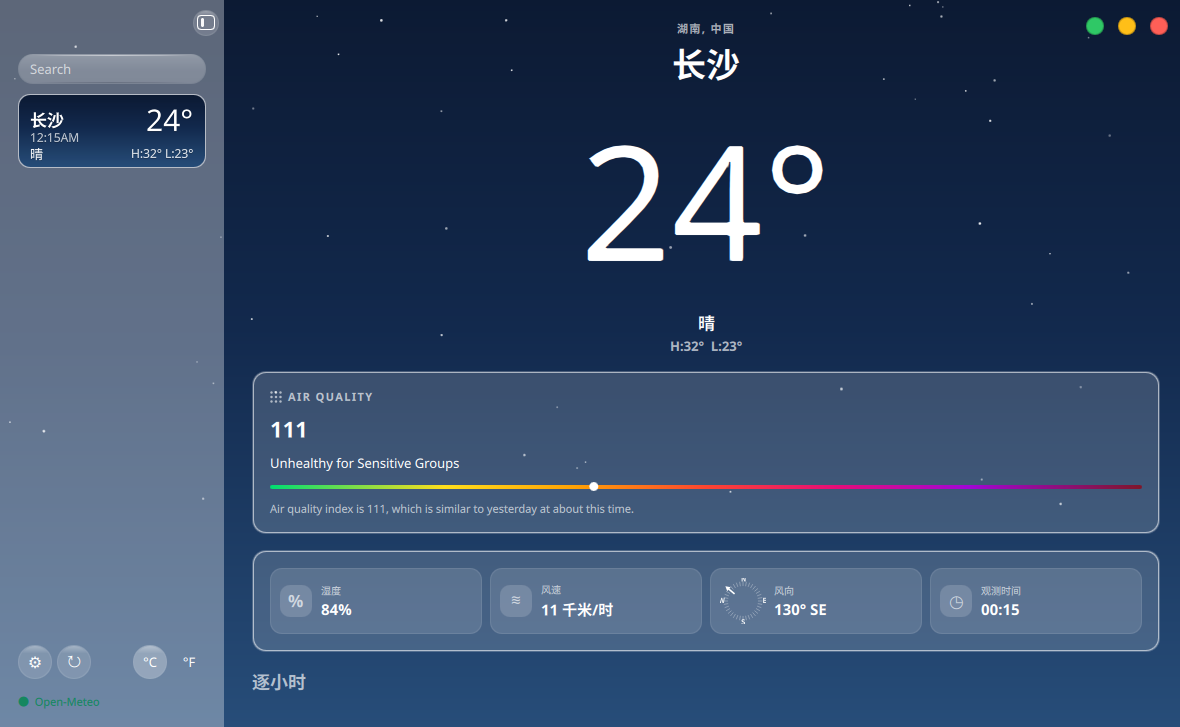
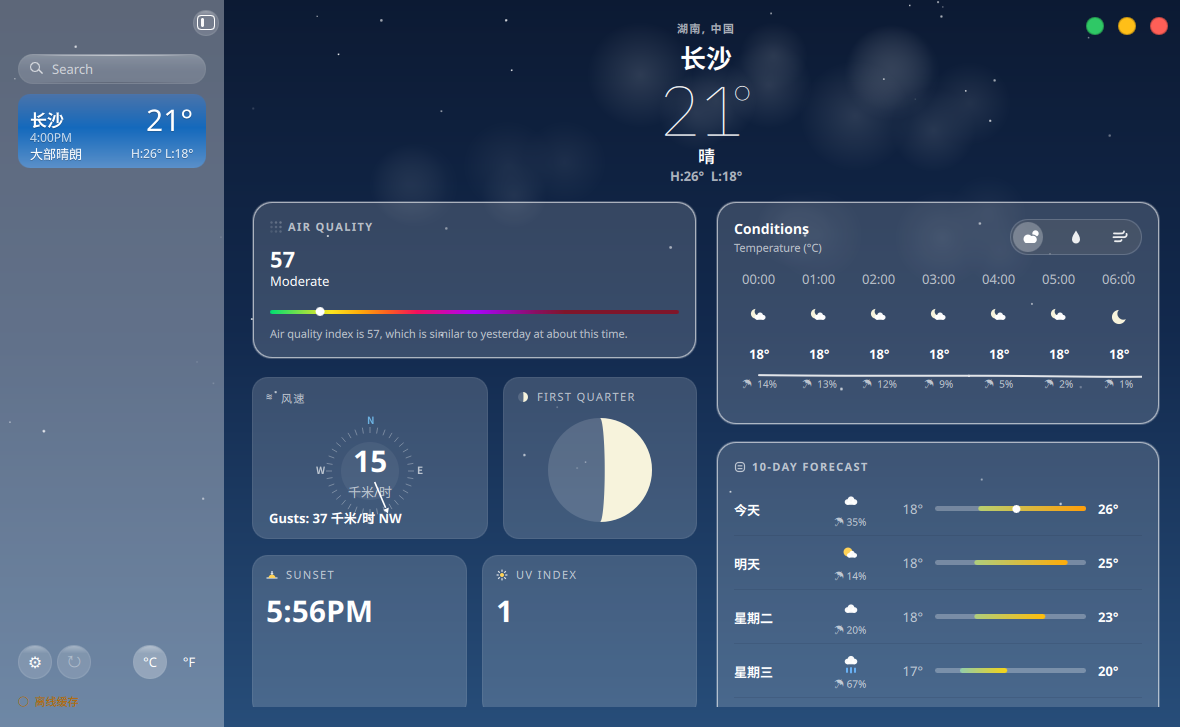
docs: round 31 进度与截图

diff --git a/docs/ui-weather/LEDGER.md b/docs/ui-weather/LEDGER.md
@@ -4,6 +4,10 @@
 参考实测色（814×498 主图采样）：天空 `#2961a7→#1469bc→#538ec9`（上→下，含云照片）；Conditions 卡 `#0057b2`；hero 文本 `#ffffff`；10天条渐变 青→黄→橙。
 
 ## 已改
+- **分段胶囊灰填充夜态实拍收口（本轮=纯验证轮，净零代码改动，外推待确认首条收口）**：重建夜态取证环境 `/tmp/kos-weather-night-state`（复制 dev `state.json`+`snapshot.json`，**两份都**改 `current.isDay:false/weatherCode:0/time 23:30`——踩坑：首拍只改 state.json，snapshot.json 优先生效、卡面 (35,111,191)=日间精确值暴露夜态未生效；两份都改后夜空 (19,35,61) 生效）+ `KOS_WEATHER_DISABLE_SERVICE_AUTOSTART=1` + `KOS_DATA_SOCKET=/nonexistent` + `KOS_SCREENSHOT_DELAY_MS=2500`。
+  **实测**（本轮二进制截图 tmp/shots/night-capsule-1792313572.png 过体检闸 ✅ 1180×727）：夜卡面 **(63,80,106)**、未选胶囊内 **(69,83,104)** → 相对卡面 **ΔR+6/G+3/B−2** vs 日间 (+18,0,−18)——上轮残差 a 预测"夜空下灰覆盖层提亮/压暗近中性"**证实**；胶囊−卡面最大通道差 6（日间 18）→ 填充可辨度降 ~3×，可见性由 border 白@0.22（顶/底描边 y219/254 在场，高 36px 与日间一致）+ 选中盘 **(122,132,147)**（=白@0.27 叠胶囊理论值 (119,130,145) 精确吻合，相对胶囊 Δ+53/+49/+43）+ 纯白 glyph (255,255,255) 三重支撑。
+  **目视** /tmp/z-night-capsule.png（4x）：描边清晰、无硬边、无发灰脏感；选中盘+云日/水滴/风流线三 glyph 夜卡上全部可读；/tmp/z-night-card.png 全卡目视 Conditions 头部/副题/逐小时 7 列/☂%/月相图标（06:00 转夜正确）均健康。
+  **测试**：Qt 6/6 绿（env -u KOS_DATA_SOCKET）、go test ok。净零 diff 轮无 qmllint 义务；无动效改动，无帧差义务。
 - **分段胶囊填充 白@0.14 → 脱饱和中性灰（本轮，前端，零 Go/C++/shared 改动，上轮 seg-glyph 轮残差 c 收口）**：上轮残差记载"ref 胶囊填充为脱饱和中性灰、我方白@0.14 平替"。本轮 Pillow 采样定标——ref-main（814×498）Conditions 卡分段胶囊：卡面 (0,83,180)、胶囊内 (28,90,168)（x688-737 两段各 ~10 采样一致）、选中盘 (95,134,192)；相对卡面 **R+28/G+7/B−12**（蓝通道反降=压暗脱饱和），解出覆盖层灰 ≈#767676（通道解算 110-126 区间）@ α0.22-0.26（取 0.24）；我方白@0.14 方向相反（卡 (35,111,191) → 胶囊 (63,130,201)，ΔR+29/G+19/B+9 整体提亮）。`apps/weather/qml/Main.qml:2391` hourlySegmented 背景 Rectangle color `Qt.rgba(1,1,1,0.14)` → `Qt.rgba(0.46,0.46,0.46,0.24)`（注释标明 ref 实测依据）；radius 18/border 白@0.22/选中盘 白@0.27/三 Canvas glyph fillStyle 一律未动——盘叠新胶囊后自动收敛（预测 (109,151,196) vs ref (95,134,192)，盘相对胶囊 +55/+40/+22 vs ref +67/+44/+24 同族）。
   **实测**（本轮二进制截图 tmp/shots/capsule-1792313347.png 过体检闸 ✅ 1180×727，dev env + KOS_SCREENSHOT_DELAY_MS=2500，日间多云场景）：胶囊内 (53,111,173) vs 卡面 (35,111,191) = **ΔR+18/G0/B−18**（与 ref 相对方向同向，理论预测 (55,113,174) 精确吻合）；目视 /tmp/z-my-capsule-new.png vs /tmp/z-ref-capsule.png：脱饱和灰胶囊+白 glyph+灰盘白云日与 ref 同构、无硬边。
   **回归**（vs 改前 inspect-1792313054，2px 步进 diff>24）：变化 797 采样**全部**落胶囊 bbox (1012,220)-(1140,252)，全窗其余零变化。qmllint 0 error（y:1449 既有 warning 基线）。测试 Qt 6/6 绿（env -u KOS_DATA_SOCKET）、go test ok。本轮无动效改动，无帧差义务。
@@ -287,7 +291,7 @@
 14. **空态残差（视觉冲击低，仅在无数据场景可见，见已改"空态文字可读性修复"条残差）**：a) 空态下 AQ 卡仍显示 "0"+全宽渐变条+白点+"similar to yesterday" 静态文案（无数据门控，有误导性）；b) Conditions 卡空态卡体全空（逐小时区无空态提示）；c) 空态 glyph 保持 accent 淡蓝。参考图无空态形态，是否处理待用户裁定；文字可读性本体已修。
 
 ## 外推待确认
-- **分段胶囊灰填充的夜间观感未实拍**：胶囊填充改灰 #767676@0.24 的实测证据来自日间多云场景（见已改"分段胶囊填充"条）；夜间卡面更暗（白 0.16 玻璃叠深夜蓝），灰覆盖层相对变亮、脱饱和方向不变但压暗量收窄——可见性主要靠 border 白@0.22 与选中盘 白@0.27。参考图无夜景，夜间读数与观感待真机/夜态实拍复核。
+- ~~**分段胶囊灰填充的夜间观感未实拍**~~（**已收口**，见已改"分段胶囊灰填充夜态实拍收口"——夜态实拍 ΔR+6/G+3/B−2 近中性证实预测；可见性由 border/选中盘/glyph 三重支撑、目视无硬边无脏感，残留仅"填充可辨度较日间降 ~3×"的观感级差异，参考图无夜景无判据，不另立轮）。
 - **☂% 0% 隐文字的阈值与全干空带**：a) 阈值取 ">0"——ref 只能证明 0% 不显示（ref Conditions 卡无 ☂ 行、10 天仅 Fri 50% 显示），0<p<某阈值的中间概率是否显示不可采样（10 天行同阈值先例，Apple 真实阈值可能更高）；b) 全部小时都 0% 时（如 ref 场景）☂ 行退化为 ~13px 空带、卡底比 ref 多一段空白——跨列收窄该行会触发 ColumnLayout 重排使温度行下坠（本轮最小 repro 实证），且 Apple 惯例是逐小时视图底部常备降水区，故保留占位；c) segment 1/2（降水/风段）下 ☂ Label 仍 visible:false，切段时的列内重排行为与改前一致未复核。
 - **逐小时列距 60px 下风段/降水段文字溢出未取证**：列距 118→60 后（见已改首条），温度段实拍 7 列无溢出；降水段 "☂  30%"（~48px）在 50px 列内临界、风段 "16 千米/时"（本地化单位串 ~70px）会超出列宽与邻列相碰——两段视图形态本系无参考外推（见下"风段/降水段视图形态无参考"条），本轮只按默认温度段截图取证，真实点击切换后的观感待真机复核；若要收口可给两段 Label 加 elide 或把单位换行（需裁定，非原子）。
 - **SUNSET 大方卡底部内容无参考**：ref-main 的 SUNSET 卡被窗底裁切、只见头部+大号时间，Apple 原生卡下半（常见是日出/日落进度弧）不可见——本轮卡高 162 对齐 WIND/月相、底部留空带（~90px），未发明底部内容。若日后拿到完整参考卡需复核补形态（数据 `daily[0].sunrise` 已有，可支撑日出行/进度弧）。大号时间字号 30px 系与 WIND 速度数字同量级外推（ref 字形 14.4px@814 实测、墨高比自洽）；mini 日落 glyph 为旧 46px sunCanvas 的 12px 缩比手绘（Apple 原生 glyph 形态不可采样）。
